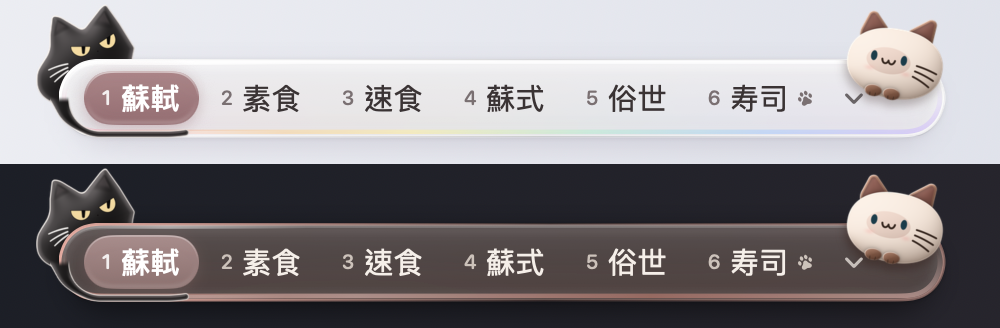
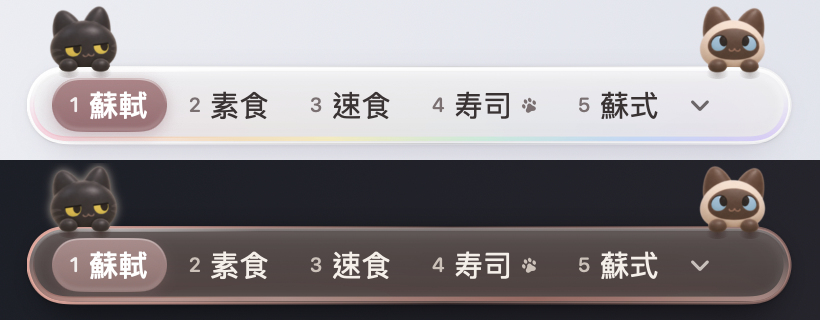
docs: 商店文案、品牌說明和 README 截圖換成新貓
- 商店文案四個語系：貓不再固定在兩端，改寫成「每天換個地方待」
- BRAND.md：新的應用圖示與標誌，造型來自 06 號素材包
- README 的候選列截圖換成新貓（macOS，淺色與深色）

Changed region(s): [[0.0305, 0.5, 0.9756, 0.9688], [0.0305, 0.0, 0.9451, 0.4375], [0.5183, 0.1875, 0.5793, 0.2188]]

diff --git a/docs/store/listing.md b/docs/store/listing.md
@@ -8,13 +8,13 @@
 
 - 名稱：喵撲 Meowpuut
 - 副標題：注音、拼音、日文，還有兩隻貓
-- 推廣文字：打 sushi，候選裡帶貓爪的「寿司」是日文。注音、拼音和日文在同一個鍵盤，不用切換。候選列兩端的米米莫和莫莫，是我家的貓。
+- 推廣文字：打 sushi，候選裡帶貓爪的「寿司」是日文。注音、拼音和日文在同一個鍵盤，不用切換。趴在候選列上的米米莫和莫莫，是我家的貓。
 - 關鍵字：注音,拼音,輸入法,鍵盤,日文,日語,顏文字,貓,繁體,簡體,動漫,表情,羅馬拼音,ㄅㄆㄇ
 
 描述：
 
 ```
-輸入法是我做的，貓是我養的。黑的叫米米莫，白的叫莫莫，牠們住在候選列的兩端。
+輸入法是我做的，貓是我養的。黑的叫米米莫，白的叫莫莫，牠們住在候選列上。
 
 打字
 ・注音、拼音（繁體或簡體）、日文、英文，都在同一個鍵盤。
@@ -29,7 +29,7 @@
 ・符號頁的 ^_^ 鍵打開顏文字：20 組、377 個，最近用過的排在前面。
 
 貓和玻璃
-・米米莫躲在玻璃後面，只露出眼睛；莫莫把下巴擱在玻璃上。
+・牠們把前爪搭在候選列的玻璃上，每天換個地方待：有時一邊一隻，有時擠在同一邊，有時整隻趴在上面。喜歡哪一種也可以固定下來。
 ・摸米米莫，他會縮一下搖頭；摸莫莫，她會蹭你的手。
 ・玻璃有膠囊、波浪、雲朵三種形狀，六組顏色，淺色深色都有。不想看到貓，也可以只留玻璃。
 ・App 裡有牠們的生活照，喜歡的可以存下來。
@@ -46,13 +46,13 @@
 
 - 名称：喵扑 Meowpuut
 - 副标题：注音、拼音、日文，还有两只猫
-- 推广文字：打 sushi，候选里带猫爪的“寿司”是日文。注音、拼音和日文在同一个键盘，不用切换。候选栏两端的米米莫和莫莫，是我家的猫。
+- 推广文字：打 sushi，候选里带猫爪的“寿司”是日文。注音、拼音和日文在同一个键盘，不用切换。趴在候选栏上的米米莫和莫莫，是我家的猫。
 - 关键字：拼音,注音,输入法,键盘,日文,日语,颜文字,猫,简体,繁体,动漫,表情,罗马音
 
 描述：
 
 ```
-输入法是我做的，猫是我养的。黑的叫米米莫，白的叫莫莫，它们住在候选栏的两端。
+输入法是我做的，猫是我养的。黑的叫米米莫，白的叫莫莫，它们住在候选栏上。
 
 打字
 ・拼音（简体或繁体）、注音、日文、英文，都在同一个键盘。
@@ -67,7 +67,7 @@
 ・符号页的 ^_^ 键打开颜文字：20 组、377 个，最近用过的排在前面。
 
 猫和玻璃
-・米米莫躲在玻璃后面，只露出眼睛；莫莫把下巴搁在玻璃上。
+・它们把前爪搭在候选栏的玻璃上，每天换个地方待：有时一边一只，有时挤在同一边，有时整只趴在上面。喜欢哪一种也可以固定下来。
 ・摸米米莫，他会缩一下摇头；摸莫莫，她会蹭你的手。
 ・玻璃有胶囊、波浪、云朵三种形状，六组颜色，浅色深色都有。不想看到猫，也可以只留玻璃。
 ・App 里有它们的生活照，喜欢的可以存下来。
@@ -84,13 +84,13 @@
 
 - 名前：喵撲 Meowpuut
 - サブタイトル：中国語と日本語を、切り替えずに。猫が二匹
-- プロモーション用テキスト：sushi と打つと、肉球のついた「寿司」が候補に出ます。注音・ピンイン・日本語がひとつのキーボードに入っていて、切り替えは要りません。候補バーの両端にいる二匹は、うちの猫です。
+- プロモーション用テキスト：sushi と打つと、肉球のついた「寿司」が候補に出ます。注音・ピンイン・日本語がひとつのキーボードに入っていて、切り替えは要りません。候補バーの上にいる二匹は、うちの猫です。
 - キーワード：中国語,台湾,注音,ピンイン,繁体字,簡体字,キーボード,入力,顔文字,猫,ボポモフォ
 
 説明：
 
 ```
-このキーボードは私が作りました。猫は私が飼っています。黒いほうが米米莫（ミミモ）、白いほうが莫莫（モモ）。候補バーの両端に住んでいます。
+このキーボードは私が作りました。猫は私が飼っています。黒いほうが米米莫（ミミモ）、白いほうが莫莫（モモ）。候補バーの上に住んでいます。
 
 入力
 ・注音（ボポモフォ）、ピンイン（繁体字・簡体字）、日本語、英語がひとつのキーボードに入っています。
@@ -104,7 +104,7 @@
 ・記号ページの ^_^ キーで顔文字の一覧が開きます。20 グループ、377 個。
 
 猫とガラス
-・米米莫はガラスの後ろから目だけ出しています。莫莫はガラスにあごをのせています。なでると反応します。
+・二匹は候補バーのガラスの縁に前足をかけています。いる場所は毎日変わります。両端に一匹ずつの日も、片側に並ぶ日も、寝そべる日もあります。好きな場所に決めておくこともできます。なでると反応します。
 ・ガラスの形は 3 種類、色は 6 組。ダークモードにも対応。猫を隠してガラスだけにもできます。
 ・アプリの中に二匹の写真があります。保存もできます。
 
@@ -128,7 +128,7 @@
 Description:
 
 ```
-I made the keyboard, and the cats are mine. The black one is Mimimo, the cream one is Momo. They live at the two ends of the candidate bar.
+I made the keyboard, and the cats are mine. The black one is Mimimo, the cream one is Momo. They live on the candidate bar.
 
 Typing
 - Zhuyin (Bopomofo), Pinyin (Traditional or Simplified), Japanese and English in one keyboard.
@@ -143,7 +143,7 @@ Emoji and kaomoji
 - The ^_^ key on the symbols page opens kaomoji: 20 groups, 377 of them, recent ones first.
 
 Cats and glass
-- Mimimo hides behind the glass with only his eyes showing. Momo rests her chin on it. Pet them and they react.
+- They rest their paws on the edge of the glass and pick a different spot every day: one at each end, both on one side, or one stretched out along the top. You can keep the spot you like. Pet them and they react.
 - Three glass shapes, six colour sets, light and dark. You can hide the cats and keep the glass.
 - The app has photos of the two of them. You can save the ones you like.
 

diff --git a/docs/BRAND.md b/docs/BRAND.md
@@ -2,11 +2,16 @@
 
 2026-11-06，使用者確定：美學主導、有藝術感；米米莫和莫莫是雙主角；不要模板化宣傳文案。Logo、應用圖示、字標、候選窗和行動鍵盤需要屬於同一套視覺語言。
 
-角色資料由使用者補充：米米莫為黑色公貓，調皮機靈、聰明；莫莫為白色重點色母貓，乖巧溫柔、偶爾呆萌，也很聰明。兩位都是使用者的貓。尚無照片，不能宣稱概念圖還原真實臉型、眼色或準確花色。
+角色資料由使用者補充：米米莫為黑色公貓，調皮機靈、聰明；莫莫為白色重點色母貓，乖巧溫柔、偶爾呆萌，也很聰明。兩位都是使用者的貓。現在的造型是使用者照著牠們的照片自己做的黏土風格設計（06 號素材包，匯入在 `assets/brand/cats/`），程式不另外畫貓。
 
 ## 已選定的標誌
 
-使用者選定截圖中的雙貓構圖。米米莫在左，黑色尾部沿底邊環住莫莫。透明標誌存於 `assets/brand/MeowpuutMark.png`，macOS 與 iOS 應用圖標採暖米色底。介面操作色沿用 01 的朱紅。
+2026-11-12 起用新設計的貓：
+
+- 應用圖示（`assets/brand/AppIcon.png`，使用者選定的「大頭特寫」）：兩隻貓的頭，米米莫在左後方，莫莫在右前方，暖米色底。iOS 用整張方圖，macOS 由 `scripts/Icon.swift` 套成圓角方塊，Android 的前景和單色圖層跟著同一張圖。
+- 標誌（`assets/brand/MeowpuutMark.png`，透明底）：兩隻並排坐著的全身像，用在 README、App 首頁和安裝程式。
+
+介面操作色沿用 01 的朱紅。
 
 ## 跨平台材質
 

diff --git a/README.md b/README.md
@@ -15,7 +15,7 @@
 
 目前是公開測試版。macOS 和 iOS 可以日常輸入中文，Android 和 Windows 有較早的測試包；選詞和相容性仍在改進。遇到不順手的地方，歡迎提供按鍵順序和預期文字。
 
-![候選列：米米莫在左，莫莫在右；sushi 的候選裡有一個帶貓爪的寿司](assets/screenshots/candidates.png)
+![macOS 候選列，淺色和深色：米米莫和莫莫趴在玻璃上緣；sushi 的候選裡有一個帶貓爪的寿司](assets/screenshots/candidates.png)
 
 ## 米米莫、莫莫，和候選列
 
